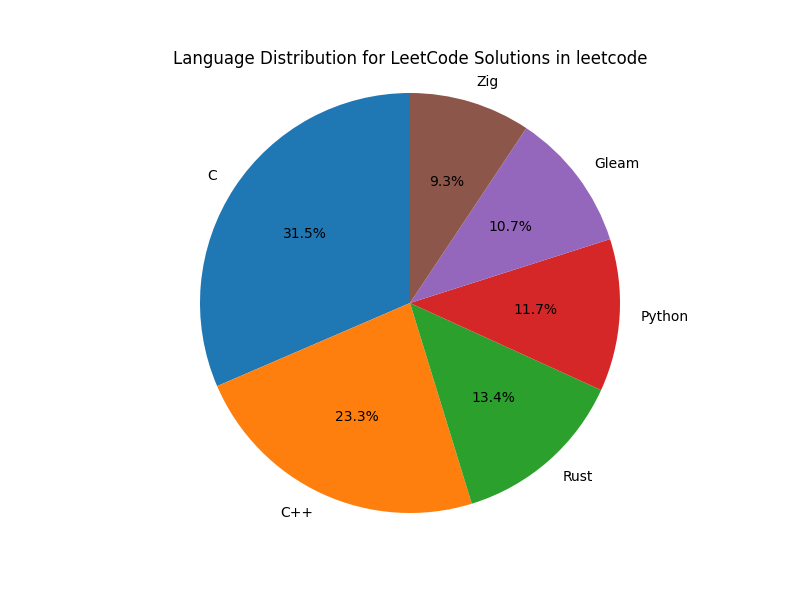
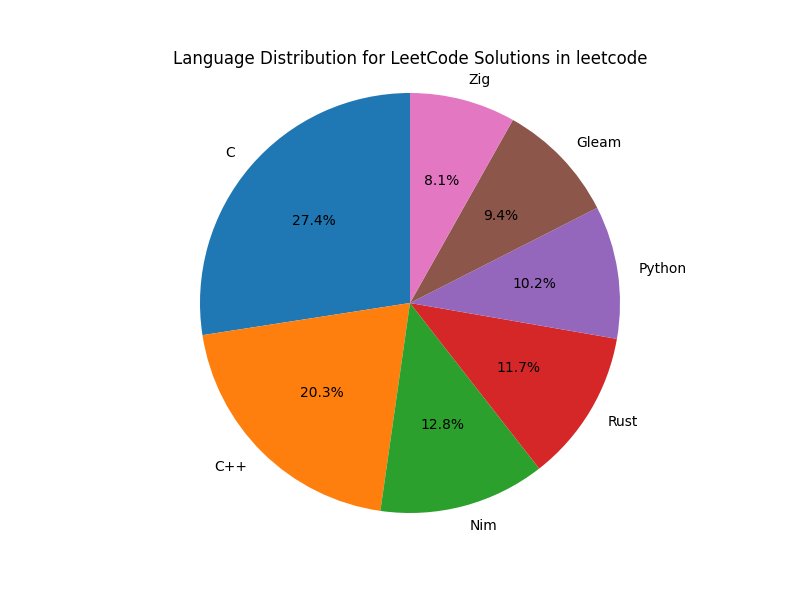
Update readme.md

diff --git a/readme.md b/readme.md
@@ -4,11 +4,11 @@ This repository contains my solutions to Leetcode problems. I have solved these 
 
 ## Problems
 
-| #   | Title                                                                                                                           | Solution                                                                                                                                                                                                                                                                                                                                                                                                                                                                                                       | Difficulty |
-| --- | ------------------------------------------------------------------------------------------------------------------------------- | -------------------------------------------------------------------------------------------------------------------------------------------------------------------------------------------------------------------------------------------------------------------------------------------------------------------------------------------------------------------------------------------------------------------------------------------------------------------------------------------------------------- | :--------: |
-| 1   | [Two Sum](https://leetcode.com/problems/two-sum/)                                                                               | [`C`](https://github.com/burakssen/leetcode/tree/C/1.%20Two%20Sum) [`C++`](https://github.com/burakssen/leetcode/tree/C++/1.%20Two%20Sum) [`Python`](https://github.com/burakssen/leetcode/tree/python/1.%20Two%20Sum) [`Rust`](https://github.com/burakssen/leetcode/tree/rust/src/problems) [`Zig`](https://github.com/burakssen/leetcode/tree/zig/src/1.%20Two%20Sum) [`Gleam`](https://github.com/burakssen/leetcode/tree/rust/src/problems) [`Zig`](https://github.com/burakssen/leetcode/tree/gleam/src) |     🟩     |
-| 2   | [Add Two Numbers](https://leetcode.com/problems/add-two-numbers/)                                                               | [`C`](https://github.com/burakssen/leetcode/tree/C/2.%20Add%20Two%20Numbers) [`C++`](https://github.com/burakssen/leetcode/tree/C++/2.%20Add%20Two%20Numbers) [`Python`](https://github.com/burakssen/leetcode/tree/python/2.%20Add%20Two%20Numbers) [`Rust`](https://github.com/burakssen/leetcode/tree/rust/src/problems) [`Gleam`](https://github.com/burakssen/leetcode/tree/gleam/src)                                                                                                                    |     🟩     |
-| 3   | [Longest Substring Without Repeating Characters](https://leetcode.com/problems/longest-substring-without-repeating-characters/) | [`C`](https://github.com/burakssen/leetcode/tree/C/3.%20Longest%20Substring%20Without%20Repeating%20Characters) [`C++`](https://github.com/burakssen/leetcode/tree/C++/3.%20Longest%20Substring%20Without%20Repeating%20Characters)                                                                                                                                                                                                                                                                            |     🟩     |
+| #   | Title                                                                                                                           | Solution                                                                                                                                                                                                                                                                                                                                                                                                                                                                                             | Difficulty |
+| --- | ------------------------------------------------------------------------------------------------------------------------------- | ---------------------------------------------------------------------------------------------------------------------------------------------------------------------------------------------------------------------------------------------------------------------------------------------------------------------------------------------------------------------------------------------------------------------------------------------------------------------------------------------------- | :--------: |
+| 1   | [Two Sum](https://leetcode.com/problems/two-sum/)                                                                               | [`C`](https://github.com/burakssen/leetcode/tree/C/1.%20Two%20Sum) [`C++`](https://github.com/burakssen/leetcode/tree/C++/1.%20Two%20Sum) [`Python`](https://github.com/burakssen/leetcode/tree/python/1.%20Two%20Sum) [`Rust`](https://github.com/burakssen/leetcode/tree/rust/src/problems) [`Zig`](https://github.com/burakssen/leetcode/tree/zig/src/1.%20Two%20Sum) [`Gleam`](https://github.com/burakssen/leetcode/tree/gleam/src) [`Nim`](https://github.com/burakssen/leetcode/tree/nim/src) |     🟩     |
+| 2   | [Add Two Numbers](https://leetcode.com/problems/add-two-numbers/)                                                               | [`C`](https://github.com/burakssen/leetcode/tree/C/2.%20Add%20Two%20Numbers) [`C++`](https://github.com/burakssen/leetcode/tree/C++/2.%20Add%20Two%20Numbers) [`Python`](https://github.com/burakssen/leetcode/tree/python/2.%20Add%20Two%20Numbers) [`Rust`](https://github.com/burakssen/leetcode/tree/rust/src/problems) [`Gleam`](https://github.com/burakssen/leetcode/tree/gleam/src) [`Nim`](https://github.com/burakssen/leetcode/tree/nim/src)                                              |     🟩     |
+| 3   | [Longest Substring Without Repeating Characters](https://leetcode.com/problems/longest-substring-without-repeating-characters/) | [`C`](https://github.com/burakssen/leetcode/tree/C/3.%20Longest%20Substring%20Without%20Repeating%20Characters) [`C++`](https://github.com/burakssen/leetcode/tree/C++/3.%20Longest%20Substring%20Without%20Repeating%20Characters)                                                                                                                                                                                                                                                                  |     🟩     |
 
 # Current Language Usage Distribution
 
@@ -20,5 +20,6 @@ This repository contains my solutions to Leetcode problems. I have solved these 
 | Rust     | 2               |
 | Zig      | 1               |
 | Gleam    | 2               |
+| Nim      | 2               |
 
 ![Language Distribution](language_distribution.png)
